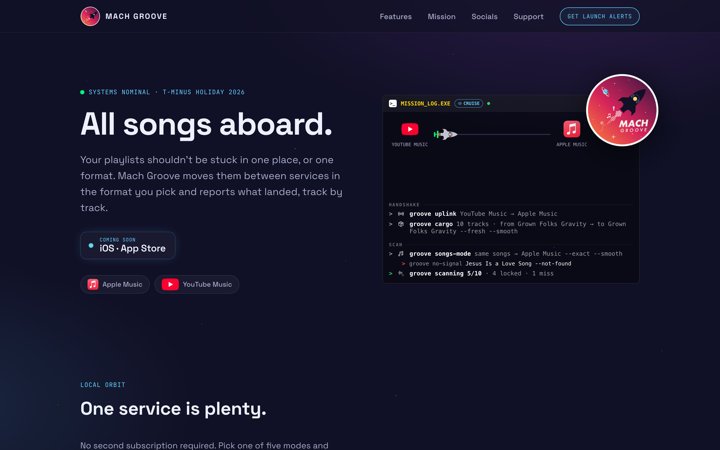
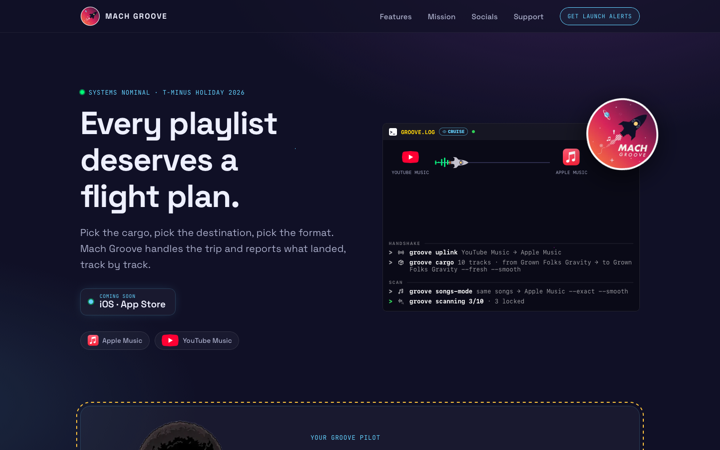
B-0096: Mach Groove card shows the new mach-groove.app - fresh screenshot of the live site with "Every playlist deserves a flight plan." and GROOVE.LOG mid-transfer, alt text to match, cache-buster b0096

diff --git a/index.html b/index.html
@@ -141,7 +141,7 @@
             </div>
           </div>
           <a class="project__card" href="https://mach-groove.app" target="_blank" rel="noopener" aria-label="Mach Groove website">
-            <img src="assets/mach-groove-site.png" srcset="assets/mach-groove-site@2x.png 2x" width="720" height="450" alt="The Mach Groove website: All songs aboard, with the mission log moving a playlist from YouTube Music to Apple Music" loading="lazy" />
+            <img src="assets/mach-groove-site.png?v=b0096" srcset="assets/mach-groove-site@2x.png?v=b0096 2x" width="720" height="450" alt="The Mach Groove website: Every playlist deserves a flight plan, with the groove log moving a playlist from YouTube Music to Apple Music" loading="lazy" />
           </a>
         </li>
 
